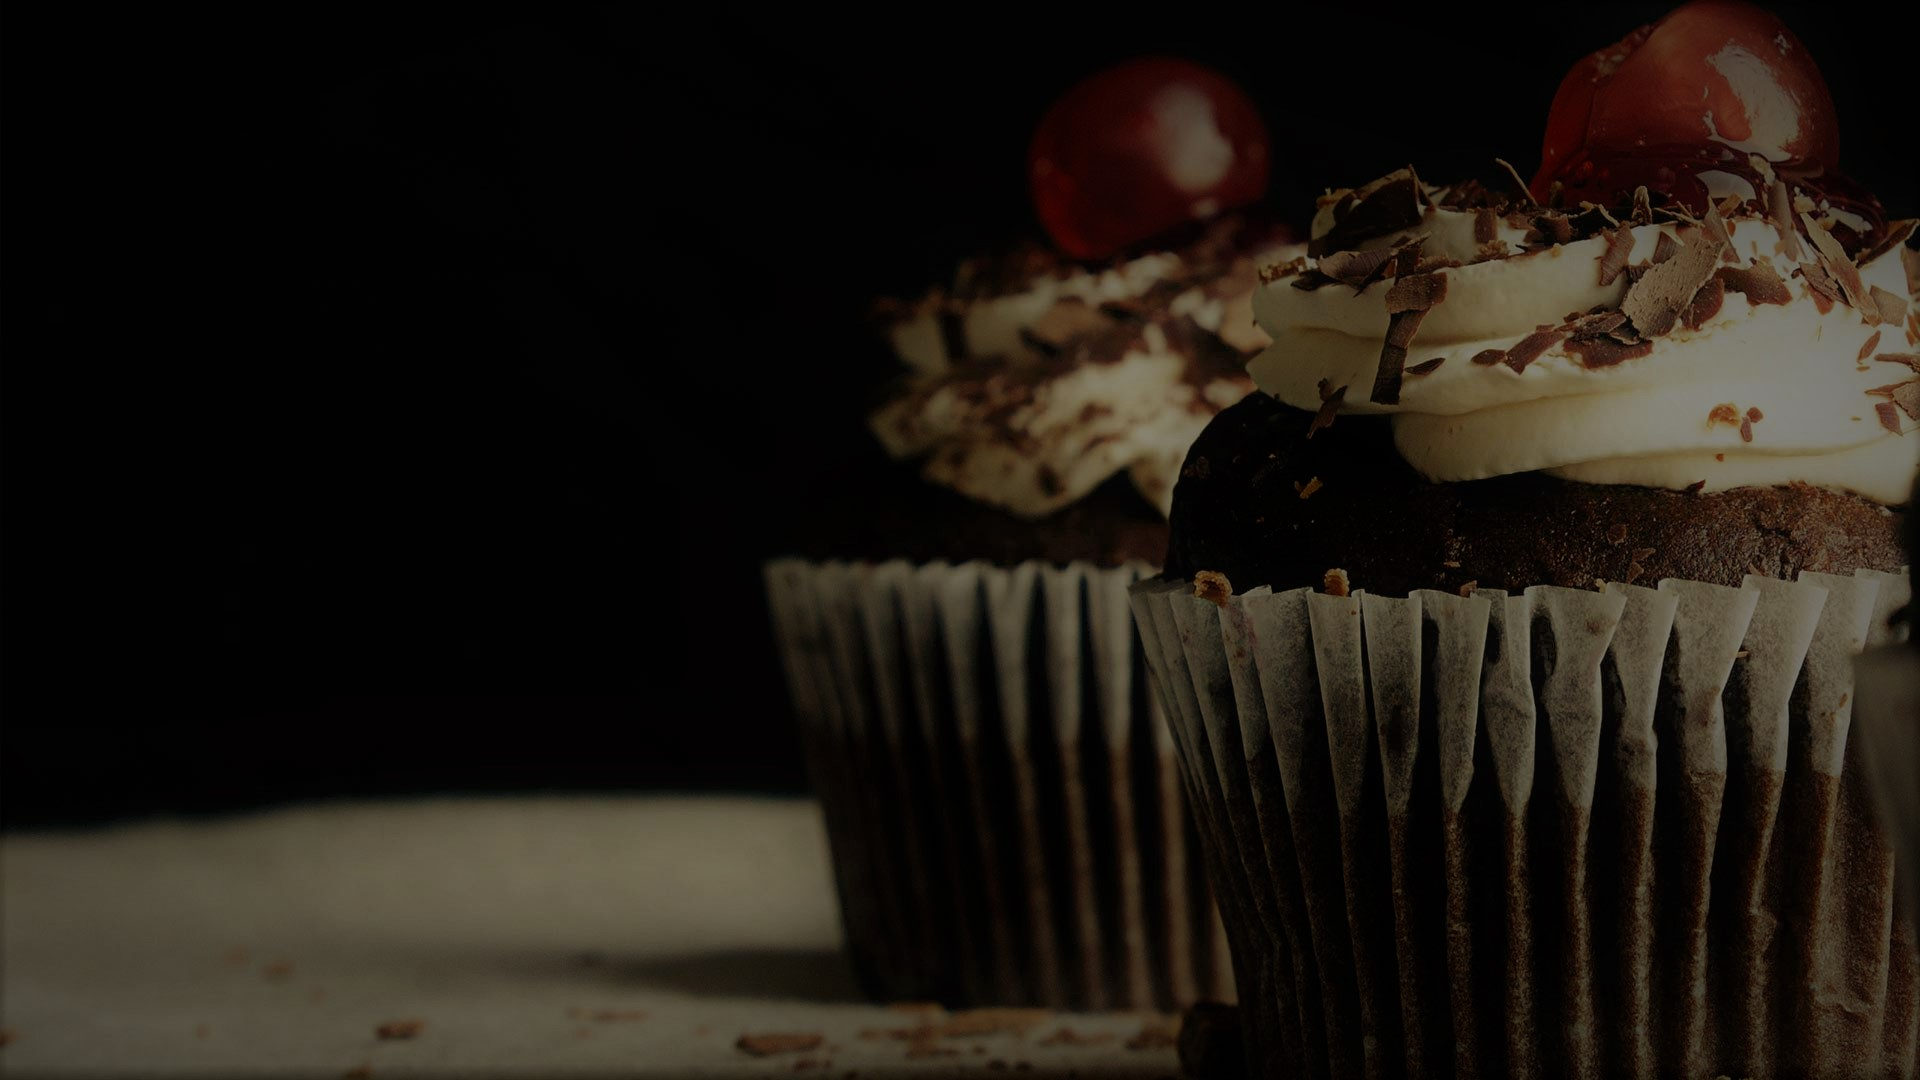
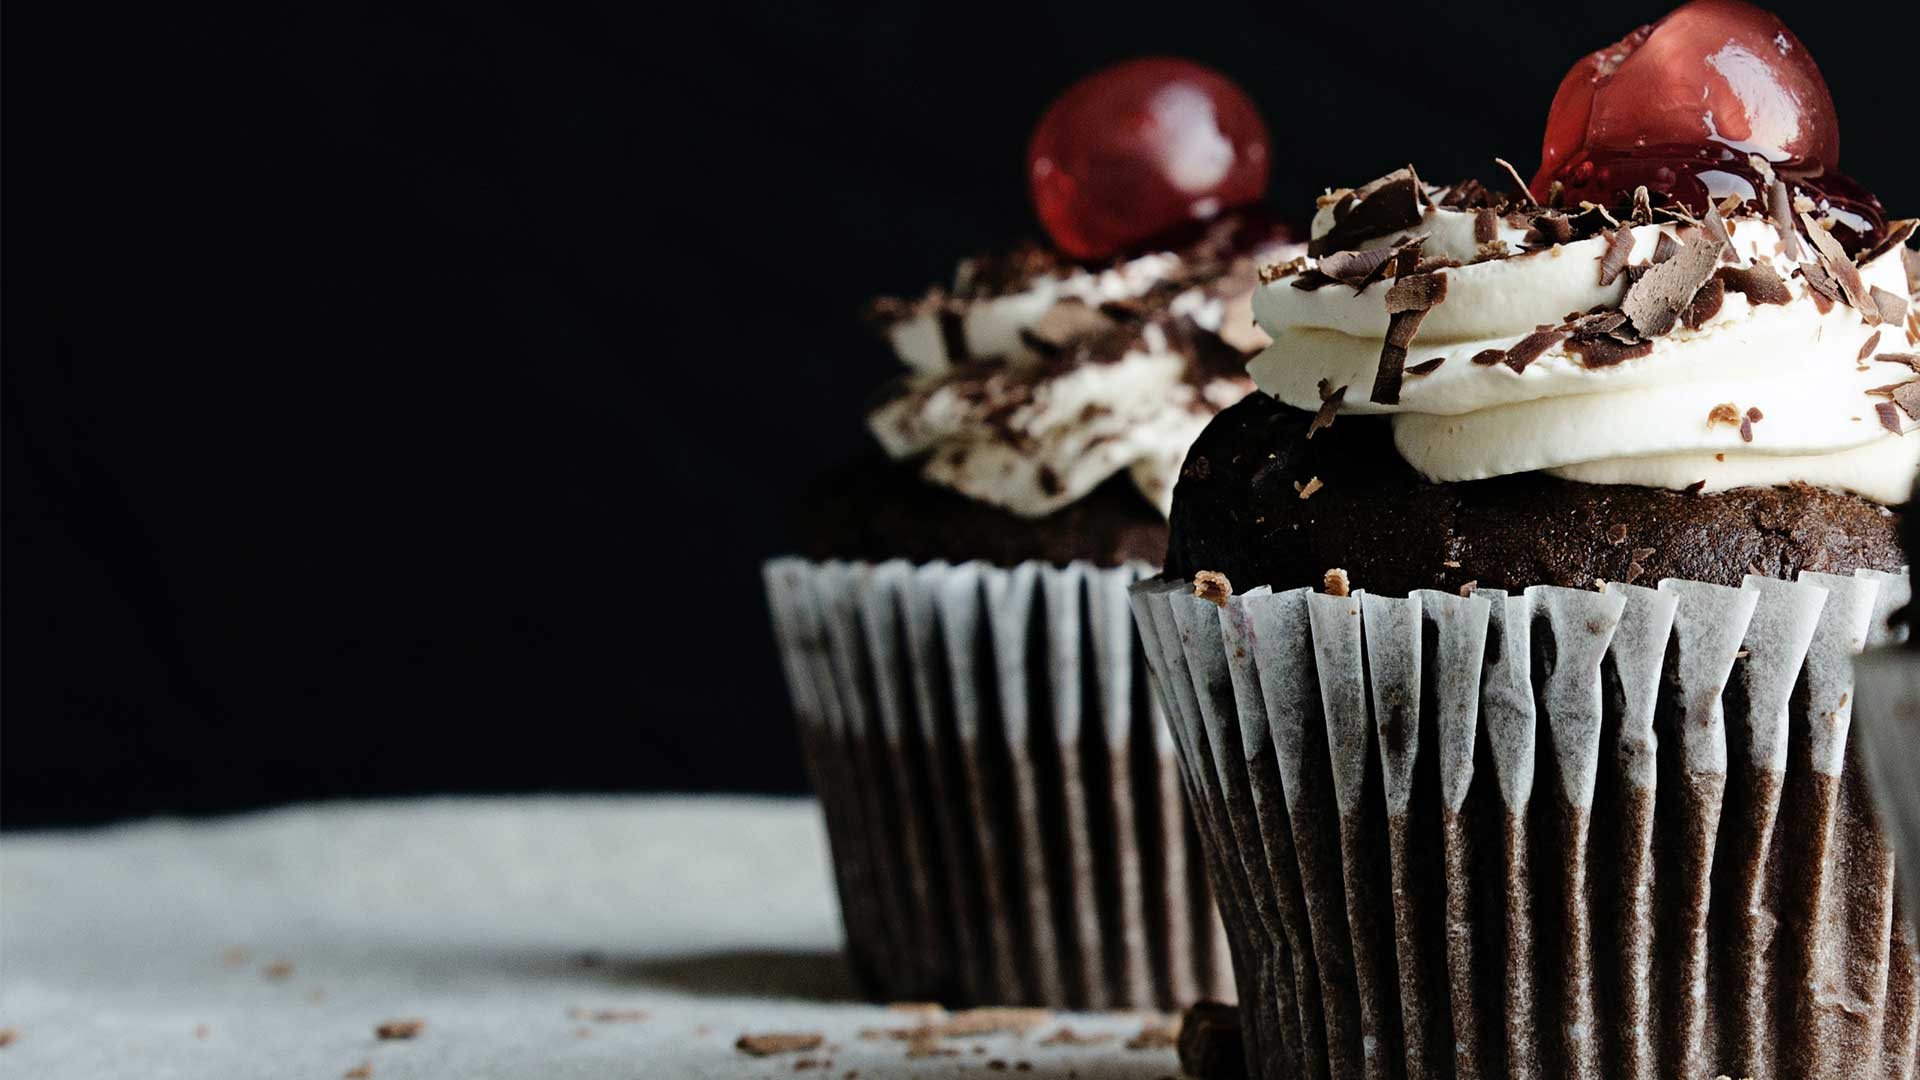
changed bg

diff --git a/index.html b/index.html
@@ -37,7 +37,7 @@
                     <i class="bi bi-envelope fs-1 text-primary me-3"></i>
                     <div class="text-start">
                         <h6 class="text-uppercase mb-1">Email Us</h6>
-                        <span>cakesandcookiesezzi@gmail.com</span>
+                        <span>ezzicakesandcookies@gmail.com</span>
                     </div>
                 </div>
             </div>
@@ -81,7 +81,7 @@
 
 
     <!-- Hero Start -->
-    <div class="container-fluid bg-offer py-5 mb-5 hero-header">
+    <div class="container-fluid bg-hero py-5 mb-5 hero-header">
         <div class="container py-5">
             <div class="row justify-content-start">
                 <div class="col-lg-8 text-center text-lg-start">

diff --git a/menu.html b/menu.html
@@ -37,7 +37,7 @@
                     <i class="bi bi-envelope fs-1 text-primary me-3"></i>
                     <div class="text-start">
                         <h6 class="text-uppercase mb-1">Email Us</h6>
-                        <span>cakesandcookiesezzi@gmail.com</span>
+                        <span>ezzicakesandcookies@gmail.com</span>
                     </div>
                 </div>
             </div>

diff --git a/css/style.css b/css/style.css
@@ -246,6 +246,11 @@ h6,
     background-size: cover;
 }
 
+.bg-hero {
+    background: linear-gradient(rgba(43, 40, 37, .9), rgba(43, 40, 37, .9)), url(../img/hero.jpg) center center no-repeat;
+    background-size: cover;
+}
+
 .bg-offer {
     background: linear-gradient(rgba(43, 40, 37, .9), rgba(43, 40, 37, .9)), url(../img/offer.jpg) center center no-repeat;
     background-size: cover;
